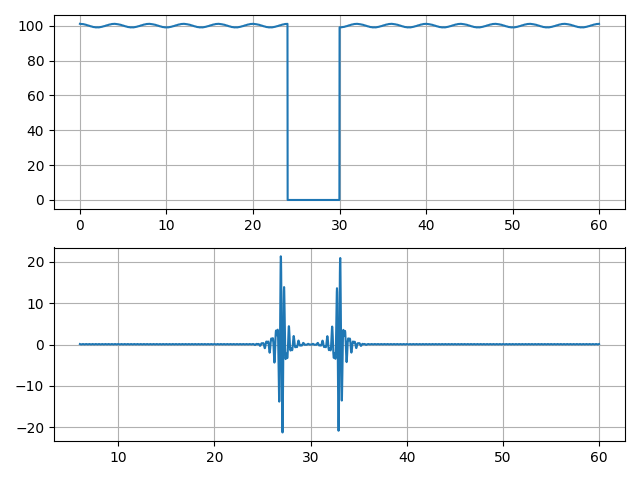
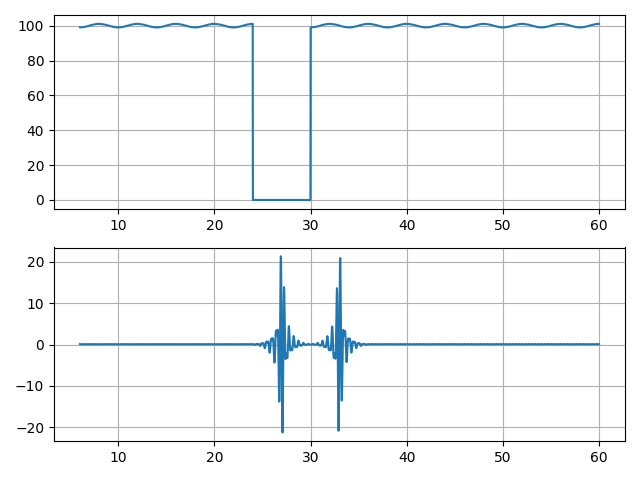
add pics and code to lection

diff --git a/signal-anomalies/notes.html b/signal-anomalies/notes.html
@@ -1,0 +1,143 @@
+<h1 id="проблемы-в-простых-данных">Проблемы в &quot;простых&quot; данных</h1>
+<h2 id="введение">Введение</h2>
+<p>Исходный код примеров - <strong>example.py</strong>. Синтезированные сигналы, иллюстрирующие некоторые проблемы, встречающиеся в измерительных сигналах.</p>
+<p>При работе с данными &quot;вслепую&quot; получаем большие проблемы даже при маленьких аномалиях.</p>
+<p>Данные могут сопровождаться положительным признаком достоверности. Аномалии - результат ошибок программирования, неправильного подключения, настройки, поломок, износа и т.п.</p>
+<p>Вспомогательный код:</p>
+<pre><code>import matplotlib.pyplot as plt
+import numpy as np
+import scipy.signal as sig
+
+
+DT, FS = 0.02, 50
+FILTER_LEN = 301
+
+
+def synth():
+    &quot;&quot;&quot;Return test signal.&quot;&quot;&quot;
+    freqs = [0.25, 3]
+    amps = [1, 0.05]
+    ts = np.arange(0, 60, DT)
+    xs = amps[0] * np.cos(2*np.pi*freqs[0]*ts) + 50
+    xs += amps[1] * np.cos(2*np.pi*freqs[1]*ts) + 50
+    return xs, ts
+
+
+def filt(xs, fband, ntaps=301):
+    &quot;&quot;&quot;Filters signal.&quot;&quot;&quot;
+    h = sig.firwin(cutoff=fband, pass_zero=False, fs=FS, numtaps=ntaps)
+    return sig.lfilter(h, [1], xs)
+
+
+def run(func):
+    &quot;&quot;&quot;Runs example with single figure output.&quot;&quot;&quot;
+    fig = plt.figure()
+    func()
+    plt.tight_layout()
+    plt.savefig(&quot;{}.png&quot;.format(func.__name__))
+    plt.close(fig)</code></pre>
+<p>Разберем его. Здесь</p>
+<pre><code>import matplotlib.pyplot as plt
+import numpy as np
+import scipy.signal as sig</code></pre>
+<p>импортируются библиотеки для рисования графиков, работы с массивами и цифровой обработки сигналов.</p>
+<p>Константы:</p>
+<ul>
+<li><code>DT</code> - шаг дискретизации (через какое время брать очередное значение сигнала), измеряется в секундах.</li>
+<li><code>FS</code> - частота дискретизации (сколько раз в секунду берется значение сигнала), изменяется в Герцах.</li>
+<li><code>FILTER_LEN</code> - длина фильтра, которая используется во всех приведенных примерах, где требуется фильтрация.</li>
+</ul>
+<p><strong>TODO</strong> что за фильтрация, какова ее роль в наших задачах? Почему рассматривается именно фильтрация?</p>
+<p>Функция <code>synth</code> возвращает сигнал, представляющий собой сумму двух гармонических составляющих с частотами 0.25 Гц и 3 Гц. Амплитуды (размах) гармоник соответственно равны 1 и 0.05. Т.е. у высокочастотной составляющей амплитуда намного меньше.</p>
+<h2 id="достоверный-ноль">Достоверный ноль</h2>
+<p>Мы иногда встречаемся с такой ситуацией. Пример про &quot;резонанс&quot;.</p>
+<p>Скачок и фильтрация.</p>
+<pre><code>xs, ts = synth()
+xf = filt(xs, [2, 4], FILTER_LEN)
+xs[len(xs) // 2] = 0
+xfz = filt(xs, [2, 4], FILTER_LEN)
+
+plt.subplot(311)
+plt.plot(ts[FILTER_LEN:], xs[FILTER_LEN:])
+plt.grid(True)
+
+plt.subplot(312)
+plt.plot(ts[FILTER_LEN:], xf[FILTER_LEN:])
+plt.grid(True)
+
+plt.subplot(313)
+plt.plot(ts[FILTER_LEN:], xfz[FILTER_LEN:])
+plt.grid(True)</code></pre>
+<div class="figure">
+<img src="./ex_zero.png" alt="Фильтрация сигнала с достоверным нулем" />
+<p class="caption">Фильтрация сигнала с достоверным нулем</p>
+</div>
+<h2 id="повторяющиеся-скачки">Повторяющиеся скачки</h2>
+<pre><code>for i in range(5):
+    xs[len(xs)//2 + i*50] = 0
+xf = filt(xs, [2, 4], FILTER_LEN)</code></pre>
+<div class="figure">
+<img src="./ex_jumps.png" alt="Повторяющиеся скачки" />
+<p class="caption">Повторяющиеся скачки</p>
+</div>
+<h2 id="пропадание-сигнала">Пропадание сигнала</h2>
+<pre><code>xs, ts = synth()
+xs[len(xs)//2-300:len(xs)//2] = 0
+xf = filt(xs, [2, 4], FILTER_LEN)</code></pre>
+<div class="figure">
+<img src="./ex_long_zero.png" alt="Пропадание сигнала на некоторое время" />
+<p class="caption">Пропадание сигнала на некоторое время</p>
+</div>
+<h2 id="пропуск">Пропуск</h2>
+<pre><code>xs, ts = synth()
+n = len(xs)//2
+xs[n] = None
+xf = filt(xs, [2, 4], FILTER_LEN)</code></pre>
+<p>Только одно значение пропущено!</p>
+<div class="figure">
+<img src="./ex_skip.png" alt="Фильтрация сигнала с одним пропуском" />
+<p class="caption">Фильтрация сигнала с одним пропуском</p>
+</div>
+<p>Вопрос: А что, если бы использовался рекурсивный фильтр?</p>
+<h2 id="странная-динамика">Странная динамика</h2>
+<p>Температура на улице.</p>
+<pre><code>bs = [5, 15, 35, -20, -10, 18, 28, 7, 7, 13, -25]
+ts = np.arange(0, 60, 1)
+xs = []
+for i in range(len(ts)):
+    xs.append(bs[i % len(bs)])</code></pre>
+<div class="figure">
+<img src="./ex_strange_dynamics.png" alt="Странная динамика" />
+<p class="caption">Странная динамика</p>
+</div>
+<h2 id="слишком-много-отличий">Слишком много отличий</h2>
+<p>Два датчика рядом, ожидаются похожие показания. Кто прав?</p>
+<pre><code>ts = np.arange(0, 60, 0.02)
+xs1 = np.cos(2*np.pi*1*ts)
+xs2 = np.cos(2*np.pi*1*ts + 0.1)
+bs = np.arange(-0.3, 0.3, 0.01)
+for i in range(len(xs2)):
+    xs2[i] = xs2[i] + bs[i % len(bs)]</code></pre>
+<div class="figure">
+<img src="./ex_differ.png" alt="Отличия" />
+<p class="caption">Отличия</p>
+</div>
+<h2 id="другое">Другое</h2>
+<ul>
+<li><strong>TODO</strong> постоянное значение (всегда одно и то же) в &quot;адекватном&quot; диапазоне.</li>
+<li><strong>TODO</strong> неадекватные значения.</li>
+<li><strong>TODO</strong> недостаточное описание (единицы измерения угла)</li>
+<li><strong>TODO</strong> неучтенные особенности данных (угол в кольце)</li>
+</ul>
+<h2 id="задания">Задания</h2>
+<ul>
+<li>Ознакомится с материалами о показателях вариации. Подумать, как можно использовать эти и другие показатели для выявления аномалий в исходных данных.</li>
+<li>Найти другие примеры аномалий в исходных данных, предложить подход к их распознаванию.</li>
+</ul>
+<h2 id="ссылки">Ссылки</h2>
+<ul>
+<li>TODO: фильтрация</li>
+<li><a href="http://edu.tltsu.ru/sites/sites_content/site216/html/media96435/lec_5.pdf">Показатели вариации</a></li>
+<li><a href="https://ru.wikipedia.org/wiki/%D0%92%D0%B0%D1%80%D0%B8%D0%B0%D1%86%D0%B8%D1%8F_(%D1%81%D1%82%D0%B0%D1%82%D0%B8%D1%81%D1%82%D0%B8%D0%BA%D0%B0)">Вариация (статистика)</a></li>
+<li><a href="https://en.wikipedia.org/wiki/Coefficient_of_variation">Coefficient of variation</a></li>
+</ul>

diff --git a/signal-anomalies/exmaple.py b/signal-anomalies/exmaple.py
@@ -32,7 +32,7 @@ def ex_zero():
     xfz = filt(xs, [2, 4], FILTER_LEN)
 
     plt.subplot(311)
-    plt.plot(ts, xs)
+    plt.plot(ts[FILTER_LEN:], xs[FILTER_LEN:])
     plt.grid(True)
 
     plt.subplot(312)
@@ -52,7 +52,7 @@ def ex_jumps():
     xf = filt(xs, [2, 4], FILTER_LEN)
 
     plt.subplot(211)
-    plt.plot(ts, xs)
+    plt.plot(ts[FILTER_LEN:], xs[FILTER_LEN:])
     plt.grid(True)
 
     plt.subplot(212)
@@ -67,7 +67,7 @@ def ex_long_zero():
     xf = filt(xs, [2, 4], FILTER_LEN)
 
     plt.subplot(211)
-    plt.plot(ts, xs)
+    plt.plot(ts[FILTER_LEN:], xs[FILTER_LEN:])
     plt.grid(True)
 
     plt.subplot(212)
@@ -78,10 +78,18 @@ def ex_long_zero():
 def ex_skip():
     """Skip one value."""
     xs, ts = synth()
-    xs[len(xs)//2] = None
+    n = len(xs)//2
+    xs[n] = None
     xf = filt(xs, [2, 4], FILTER_LEN)
 
+    plt.subplot(211)
+    plt.plot(ts[FILTER_LEN:], xs[FILTER_LEN:])
+    plt.plot([ts[n-1]], [xs[n-1]], 'rx')
+    plt.grid(True)
+
+    plt.subplot(212)
     plt.plot(ts[FILTER_LEN:], xf[FILTER_LEN:])
+    plt.grid(True)
 
 
 def ex_strange_dynamics():

diff --git a/signal-anomalies/notes.md b/signal-anomalies/notes.md
@@ -1,4 +1,4 @@
-# Аномалии в "простых" данных
+# Проблемы в "простых" данных
 
 ## Введение
 
@@ -61,52 +61,133 @@ import scipy.signal as sig
 импортируются библиотеки для рисования графиков, работы с массивами и
 цифровой обработки сигналов.
 
+Константы:
+
+* `DT` - шаг дискретизации (через какое время брать очередное значение
+  сигнала), измеряется в секундах.
+* `FS` - частота дискретизации (сколько раз в секунду берется значение
+  сигнала), изменяется в Герцах.
+* `FILTER_LEN` - длина фильтра, которая используется во всех
+  приведенных примерах, где требуется фильтрация.
+
+**TODO** что за фильтрация, какова ее роль в наших задачах? Почему
+рассматривается именно фильтрация?
+
 Функция `synth` возвращает сигнал, представляющий собой сумму двух
 гармонических составляющих с частотами 0.25 Гц и 3 Гц. Амплитуды
 (размах) гармоник соответственно равны 1 и 0.05. Т.е. у
 высокочастотной составляющей амплитуда намного меньше.
 
-## Скачок
+
+## Достоверный ноль
 
 Мы иногда встречаемся с такой ситуацией. Пример про "резонанс".
 
 Скачок и фильтрация.
 
-![Скачок](./ex_jumps.png)
+```
+xs, ts = synth()
+xf = filt(xs, [2, 4], FILTER_LEN)
+xs[len(xs) // 2] = 0
+xfz = filt(xs, [2, 4], FILTER_LEN)
 
-Описание рисунка.
+plt.subplot(311)
+plt.plot(ts[FILTER_LEN:], xs[FILTER_LEN:])
+plt.grid(True)
 
-Код:
+plt.subplot(312)
+plt.plot(ts[FILTER_LEN:], xf[FILTER_LEN:])
+plt.grid(True)
 
-## Пропуск
+plt.subplot(313)
+plt.plot(ts[FILTER_LEN:], xfz[FILTER_LEN:])
+plt.grid(True)
+```
+
+![Фильтрация сигнала с достоверным нулем](./ex_zero.png)
 
 ## Повторяющиеся скачки
 
+```
+for i in range(5):
+	xs[len(xs)//2 + i*50] = 0
+xf = filt(xs, [2, 4], FILTER_LEN)
+```
+
+![Повторяющиеся скачки](./ex_jumps.png)
+
+
 ## Пропадание сигнала
 
-## Константное значение
+```
+xs, ts = synth()
+xs[len(xs)//2-300:len(xs)//2] = 0
+xf = filt(xs, [2, 4], FILTER_LEN)
+```
 
-В заданном диапазоне
+![Пропадание сигнала на некоторое время](./ex_long_zero.png)
 
-## Неадекватные значения
+
+## Пропуск
+
+```
+xs, ts = synth()
+n = len(xs)//2
+xs[n] = None
+xf = filt(xs, [2, 4], FILTER_LEN)
+```
+
+Только одно значение пропущено!
+
+![Фильтрация сигнала с одним пропуском](./ex_skip.png)
+
+Вопрос: А что, если бы использовался рекурсивный фильтр?
+
 
 ## Странная динамика
 
+Температура на улице.
+
+```
+bs = [5, 15, 35, -20, -10, 18, 28, 7, 7, 13, -25]
+ts = np.arange(0, 60, 1)
+xs = []
+for i in range(len(ts)):
+	xs.append(bs[i % len(bs)])
+```
+
+![Странная динамика](./ex_strange_dynamics.png)
+
+
 ## Слишком много отличий
 
-Температура
+Два датчика рядом, ожидаются похожие показания. Кто прав?
 
-## Угол в кольце
+```
+ts = np.arange(0, 60, 0.02)
+xs1 = np.cos(2*np.pi*1*ts)
+xs2 = np.cos(2*np.pi*1*ts + 0.1)
+bs = np.arange(-0.3, 0.3, 0.01)
+for i in range(len(xs2)):
+	xs2[i] = xs2[i] + bs[i % len(bs)]
+```
 
-Скачки
+![Отличия](./ex_differ.png)
 
-## Единицы измерения
 
-Градусы или радианы, полная фаза
+## Другое
+
+* **TODO** постоянное значение (всегда одно и то же) в "адекватном"
+  диапазоне.
+* **TODO** неадекватные значения.
+* **TODO** недостаточное описание (единицы измерения угла)
+* **TODO** неучтенные особенности данных (угол в кольце)
 
 ## Задания
 
-* Почитайте о показателях
+* Ознакомится с материалами о показателях вариации. Подумать, как
+  можно использовать эти и другие показатели для выявления аномалий в
+  исходных данных.
 * Найти другие примеры аномалий в исходных данных, предложить подход к
   их распознаванию.
 
